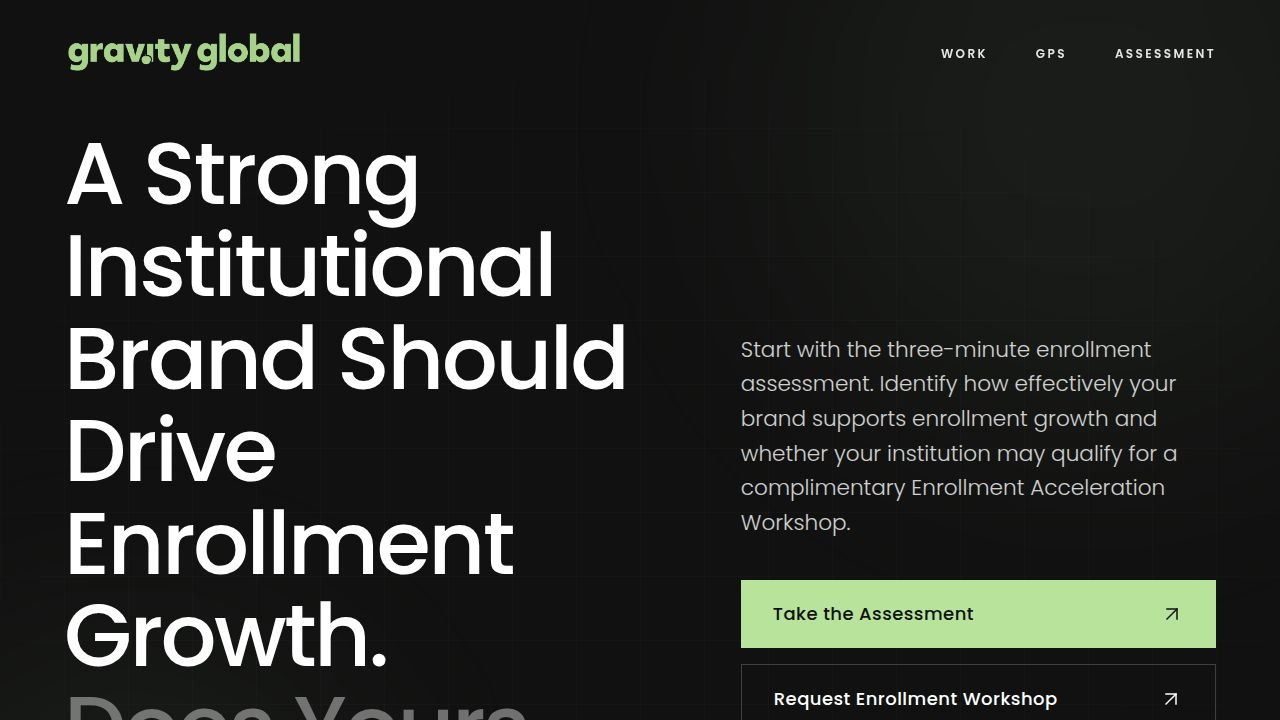
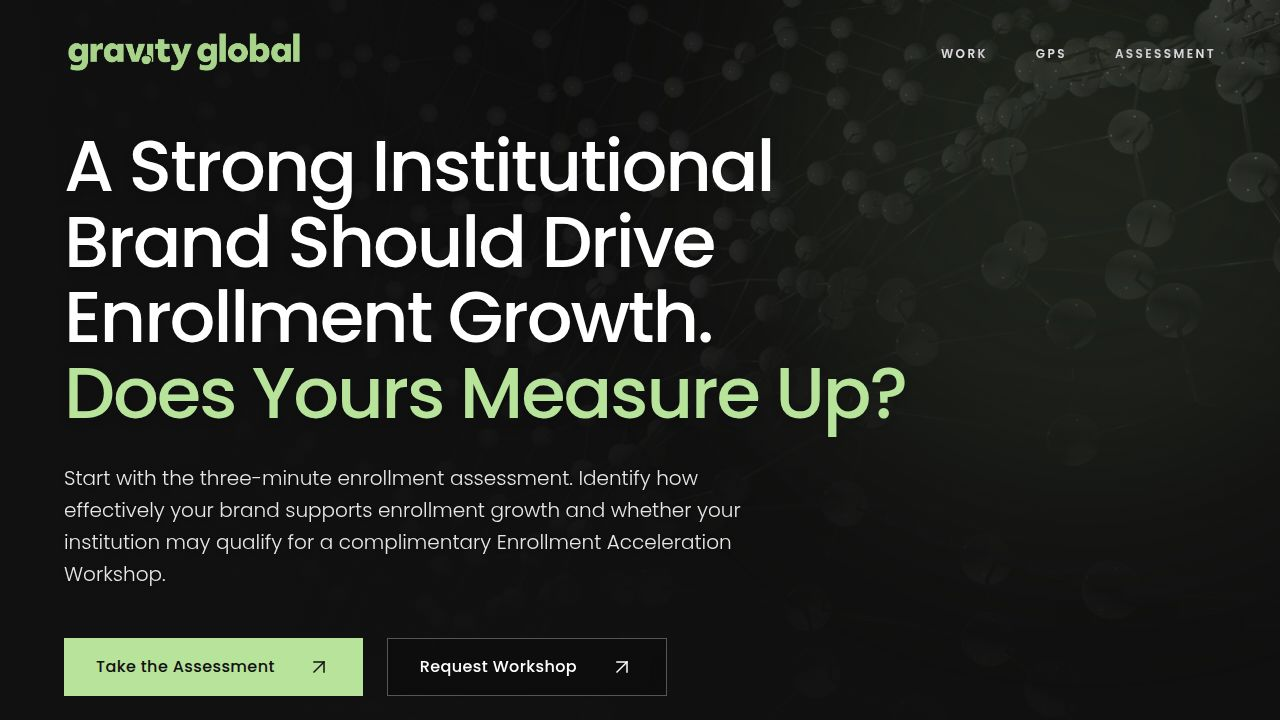
Update Montgomery College case study images and layout
Replaced the single image in the Montgomery College case study with a multi-image gallery. Updated associated image assets and adjusted layout in `client/src/pages/Home.tsx`.

Replit-Commit-Author: Agent
Replit-Commit-Session-Id: d6e0730f-b30e-491c-b3e2-d3f84d242913
Replit-Commit-Checkpoint-Type: full_checkpoint
Replit-Commit-Event-Id: 3f88cece-a0fb-4bad-b05a-02d327f719ae
Replit-Commit-Screenshot-Url: https://storage.googleapis.com/screenshot-production-us-central1/9cd8e13a-6fcb-4403-b32e-22f1f94d53f9/d6e0730f-b30e-491c-b3e2-d3f84d242913/NeShLvz
Replit-Helium-Checkpoint-Created: true

diff --git a/client/src/pages/Home.tsx b/client/src/pages/Home.tsx
@@ -161,11 +161,11 @@ export default function Home() {
         </div>
       </section>
 
-      {/* Sticky Case Studies */}
-      <section id="work" className="relative w-full bg-[#111111]">
+      {/* Case Studies Section */}
+      <section className="py-24 lg:py-32 px-6 lg:px-16 bg-[#111111] relative z-20 border-t border-white/10">
          
          {/* Slide 1: Montgomery College */}
-         <div className="sticky top-0 min-h-screen w-full flex items-center px-6 lg:px-16 bg-[#111111] pt-32 pb-32 border-t border-white/10">
+         <div className="sticky top-0 min-h-screen w-full flex items-center bg-[#111111] pt-32 pb-32">
             <div className="max-w-[1500px] mx-auto w-full grid lg:grid-cols-[1fr_1.4fr] gap-16 lg:gap-32 items-center">
                
                <div className="flex flex-col gap-10">
@@ -219,8 +219,18 @@ export default function Home() {
                   </div>
                </div>
 
-               <div className="w-full aspect-[4/3] lg:aspect-[3/4] max-h-[85vh] relative overflow-hidden bg-[#1a1a1a]">
-                  <img src="/assets/montgomery-college.jpg" className="w-full h-full object-cover opacity-60 hover:opacity-100 transition-all duration-1000 hover:scale-[1.03] grayscale hover:grayscale-0" alt="Montgomery College" />
+               <div className="flex flex-col gap-6 w-full max-h-[85vh] overflow-hidden">
+                  <div className="w-full aspect-[16/9] relative overflow-hidden bg-[#1a1a1a]">
+                     <img src="/assets/mc-sign.jpg" className="w-full h-full object-cover opacity-80 hover:opacity-100 transition-all duration-1000 hover:scale-[1.03] grayscale hover:grayscale-0" alt="Montgomery College Sign" />
+                  </div>
+                  <div className="grid grid-cols-2 gap-6 h-full">
+                     <div className="w-full aspect-square relative overflow-hidden bg-[#1a1a1a]">
+                        <img src="/assets/mc-student-lab.jpg" className="w-full h-full object-cover opacity-80 hover:opacity-100 transition-all duration-1000 hover:scale-[1.03] grayscale hover:grayscale-0" alt="Student in lab" />
+                     </div>
+                     <div className="w-full aspect-square relative overflow-hidden bg-[#1a1a1a]">
+                        <img src="/assets/mc-signs.jpg" className="w-full h-full object-cover opacity-80 hover:opacity-100 transition-all duration-1000 hover:scale-[1.03] grayscale hover:grayscale-0" alt="Montgomery College Event" />
+                     </div>
+                  </div>
                </div>
 
             </div>
